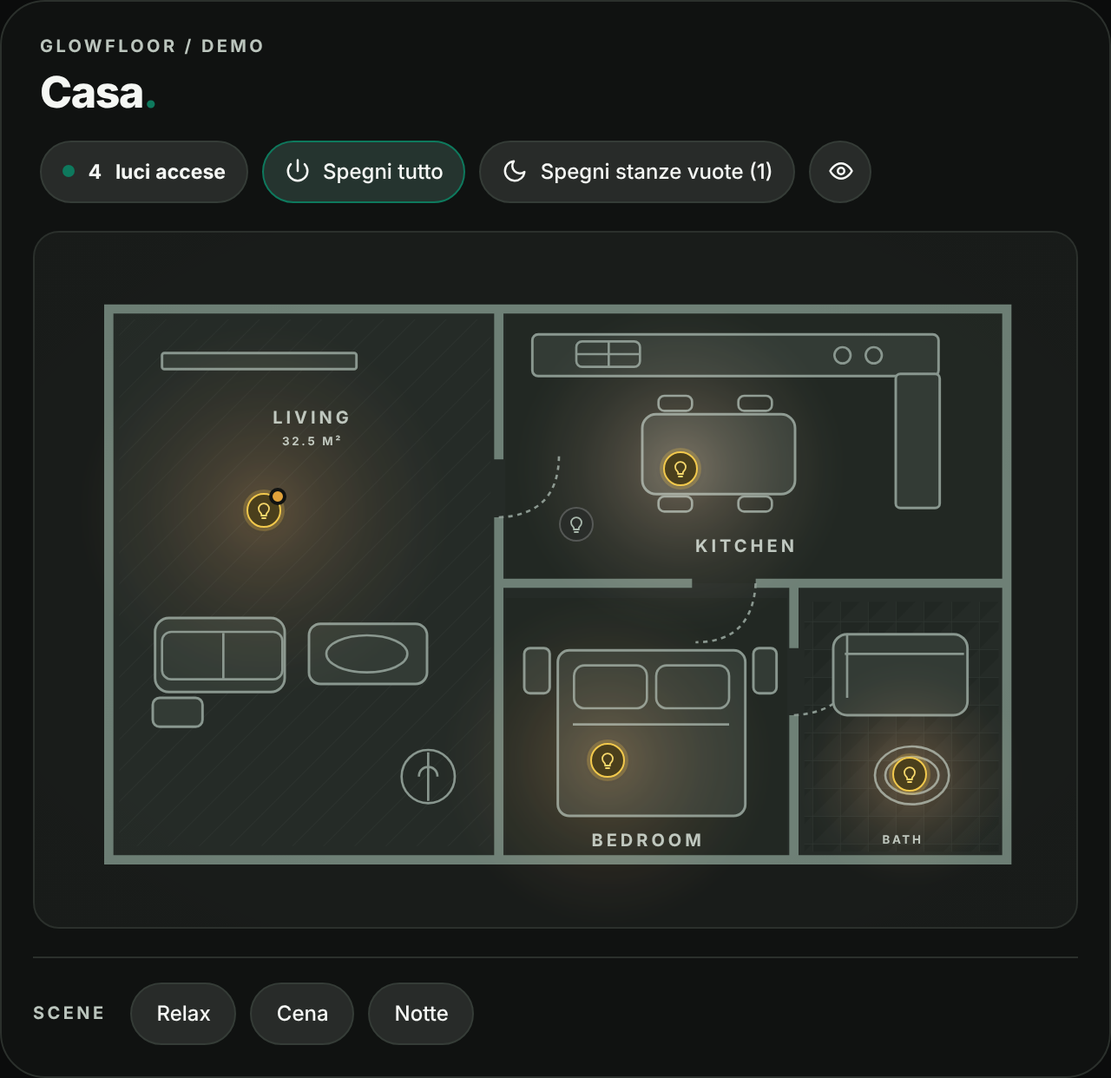
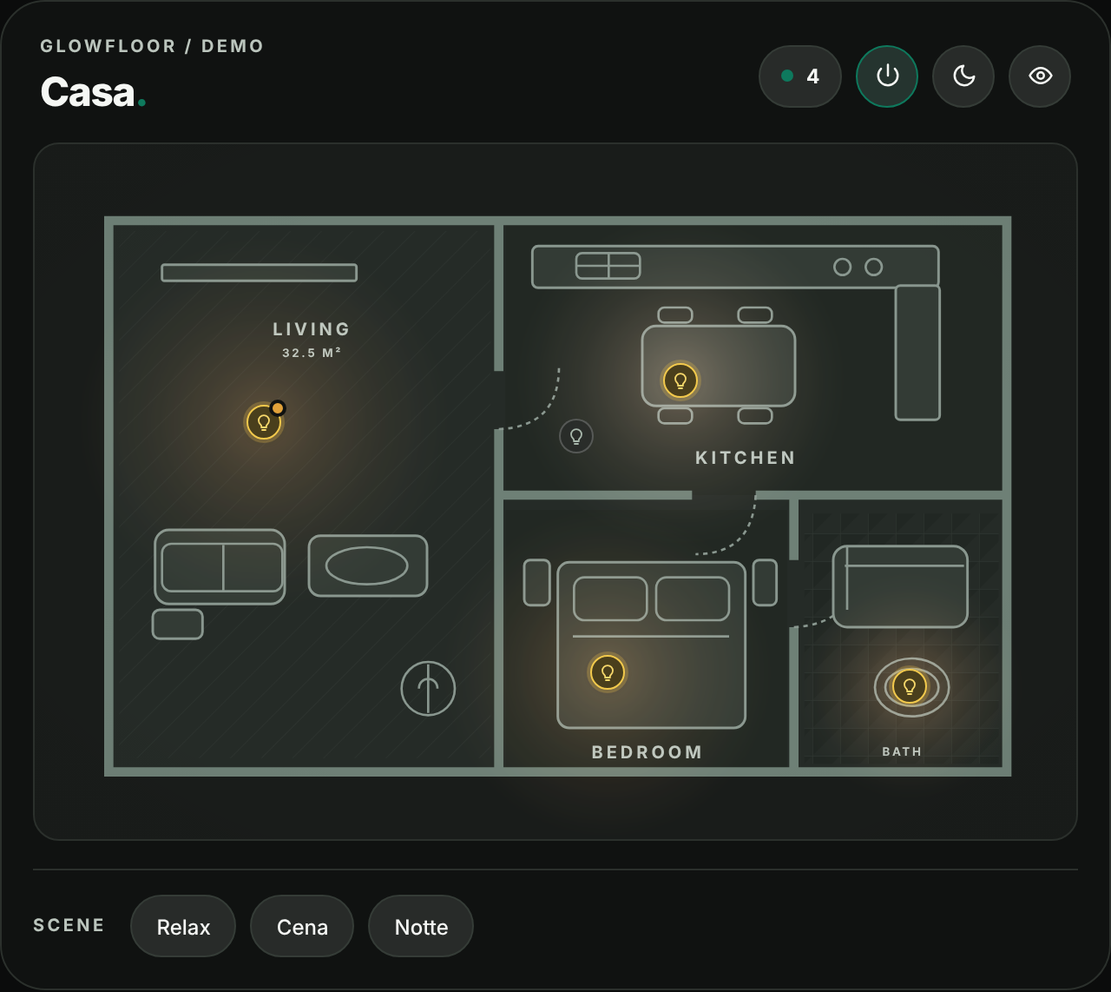
Keep only compact markers, add title and label switches, adapt toolbar to control count

diff --git a/dist/glowfloor-card.js b/dist/glowfloor-card.js
@@ -29,7 +29,7 @@ const STYLE = `
 :host{--gf-n-off:rgba(255,255,255,.66);--gf-n-off-line:rgba(24,34,28,.22);--gf-n-off-ink:#6a7a70;--gf-y-bg:#fff0b8;--gf-y-line:#d8a41a;--gf-y-ink:#9a6400;--gf-y-glow:#f2c94c33;--gf-skel-a:#e6eae5;--gf-skel-b:#f3f5f2;--gf-action-ink:#0a7156}
 :host([data-theme="dark"]){--gf-n-off:rgba(40,43,41,.72);--gf-n-off-line:rgba(245,247,244,.22);--gf-n-off-ink:#a9b9ad;--gf-y-bg:#4a3f1c;--gf-y-line:#f2c94c;--gf-y-ink:#f7d86b;--gf-y-glow:#f2c94c40;--gf-skel-a:#202422;--gf-skel-b:#2a2f2c;--gf-action-ink:#f5f7f4}
 .shell{display:block;border:1px solid var(--gf-line);border-radius:26px;background:var(--gf-frame);box-shadow:none;overflow:hidden;padding:18px;min-width:0;container-type:inline-size}
-.bar{display:flex;align-items:center;justify-content:space-between;gap:12px;margin:2px 4px 16px;flex-wrap:wrap}.intro{min-width:0}.intro[hidden],.intro [hidden]{display:none}.eyebrow{color:var(--gf-muted);font-size:10px;font-weight:750;letter-spacing:1.7px;text-transform:uppercase;margin-bottom:7px}.title{color:var(--gf-ink);font-size:25px;line-height:1.14;letter-spacing:-.7px;font-weight:780;overflow-wrap:anywhere}.title .dot{color:var(--gf-accent);font-weight:800}.sub{font-size:12px;color:var(--gf-muted);margin-top:5px}.tools{display:flex;gap:8px;align-items:center;flex-wrap:wrap}.count,.action,.theme{border:1px solid var(--gf-chip-border);border-radius:999px;background:var(--gf-chip);color:var(--gf-ink);font:inherit;font-size:12px;font-weight:550;white-space:nowrap;min-height:36px}.count{display:flex;align-items:center;gap:8px;padding:9px 12px;font-size:11.5px;font-weight:650;font-variant-numeric:tabular-nums}.count::before{content:"";width:7px;height:7px;background:var(--gf-muted);border-radius:50%;opacity:.7}.action{display:inline-flex;align-items:center;gap:7px;padding:8px 12px;cursor:pointer}.action svg{width:15px;height:15px;flex:none}.action:disabled{opacity:.48;cursor:not-allowed}.action:not(:disabled):hover,.scene:hover{border-color:var(--gf-accent)}.count.has-on::before{background:var(--gf-accent);opacity:1}.toggle-plan{width:36px;padding:0;justify-content:center}.toggle-plan[aria-expanded="false"]{border-color:var(--gf-accent);color:var(--gf-action-ink)}.all-off:not(:disabled){border-color:var(--gf-accent);color:var(--gf-action-ink);background:color-mix(in srgb,var(--gf-accent) 12%,var(--gf-chip))}@container (max-width:480px){.count .lbl,.action .t{display:none}.action{width:36px;padding:0;justify-content:center}.count{padding:0 12px}}@container (max-width:420px){.title{font-size:23px}}.plan[hidden]{display:none!important}
+.bar{display:flex;align-items:center;justify-content:space-between;gap:12px;margin:2px 4px 16px;flex-wrap:wrap}.intro{min-width:0}.intro[hidden],.intro [hidden]{display:none}.eyebrow{color:var(--gf-muted);font-size:10px;font-weight:750;letter-spacing:1.7px;text-transform:uppercase;margin-bottom:7px}.title{color:var(--gf-ink);font-size:23px;line-height:1.14;letter-spacing:-.7px;font-weight:780;overflow-wrap:anywhere}.title .dot{color:var(--gf-accent);font-weight:800}.sub{font-size:12px;color:var(--gf-muted);margin-top:5px}.tools{display:flex;gap:8px;align-items:center;flex-wrap:wrap}.count,.action,.theme{border:1px solid var(--gf-chip-border);border-radius:999px;background:var(--gf-chip);color:var(--gf-ink);font:inherit;font-size:12px;font-weight:550;white-space:nowrap;min-height:36px}.count{display:flex;align-items:center;gap:8px;padding:9px 12px;font-size:11.5px;font-weight:650;font-variant-numeric:tabular-nums}.count::before{content:"";width:7px;height:7px;background:var(--gf-muted);border-radius:50%;opacity:.7}.action{display:inline-flex;align-items:center;gap:7px;padding:8px 12px;cursor:pointer}.action svg{width:15px;height:15px;flex:none}.action:disabled{opacity:.48;cursor:not-allowed}.action:not(:disabled):hover,.scene:hover{border-color:var(--gf-accent)}.count.has-on::before{background:var(--gf-accent);opacity:1}.toggle-plan{width:36px;padding:0;justify-content:center}.toggle-plan[aria-expanded="false"]{border-color:var(--gf-accent);color:var(--gf-action-ink)}.all-off:not(:disabled){border-color:var(--gf-accent);color:var(--gf-action-ink);background:color-mix(in srgb,var(--gf-accent) 12%,var(--gf-chip))}.tools:has(.vacant-off:not([hidden])) .count .lbl,.tools:has(.vacant-off:not([hidden])) .action .t{display:none}.tools:has(.vacant-off:not([hidden])) .action{width:36px;padding:0;justify-content:center}.tools:has(.vacant-off:not([hidden])) .count{padding:0 12px}.plan[hidden]{display:none!important}
 .plan{position:relative;width:100%;background:var(--gf-plan);border:1px solid var(--gf-line);border-radius:15px;overflow:hidden;isolation:isolate;line-height:0;min-width:0}
 /* Each pool of light sits on top of the floorplan, behind its control marker. */
 .spill{position:absolute;z-index:1;aspect-ratio:1;pointer-events:none;transform:translate(-50%,-50%) scale(.72);border-radius:50%;opacity:0;transition:opacity .32s ease,transform .52s cubic-bezier(.16,.8,.25,1);filter:blur(5px);background:radial-gradient(circle,rgba(var(--gf-light-rgb,211,194,157),.35) 0%,rgba(var(--gf-light-rgb,211,194,157),.19) 22%,rgba(var(--gf-light-rgb,211,194,157),.08) 45%,rgba(var(--gf-light-rgb,255,194,116),0) 72%)}
@@ -46,10 +46,6 @@ const STYLE = `
 :host([data-marker-style="compact"]){--gf-icon-ratio:.6}
 :host([data-marker-style="compact"]) .orb{background:var(--gf-n-off);border-color:var(--gf-n-off-line);color:var(--gf-n-off-ink);box-shadow:none;-webkit-backdrop-filter:blur(3px);backdrop-filter:blur(3px)}
 :host([data-marker-style="compact"]) .marker.on .orb{background:var(--gf-y-bg);border-color:var(--gf-y-line);color:var(--gf-y-ink);box-shadow:0 0 0 2px var(--gf-y-glow),0 1px 4px #00000022}
-:host([data-marker-style="icon"]){--gf-icon-ratio:1}
-:host([data-marker-style="icon"]) .orb,:host([data-marker-style="icon"]) .marker.on .orb{background:transparent;border:0;box-shadow:none}
-:host([data-marker-style="icon"]) .orb{filter:drop-shadow(0 0 2px #000000bf)}
-:host([data-theme="light"][data-marker-style="icon"]) .orb{filter:drop-shadow(0 0 2px #ffffffe6)}
 .plan.pending{aspect-ratio:3/2}
 .plan.pending .floor-image{position:absolute;inset:0;height:100%;object-fit:cover}
 .plan.pending .marker,.plan.pending .spill{visibility:hidden}
@@ -128,11 +124,10 @@ button:focus-visible{outline:2px solid var(--primary-color,#668277);outline-offs
 `;
 const isValidEntity = (id, domain) => typeof id === 'string' && new RegExp(`^${domain}\\.[a-z0-9_]+$`).test(id);
 const coordinate = (v, defaultValue = 50) => Number.isFinite(Number(v)) ? Math.max(0, Math.min(100, Number(v))) : defaultValue;
-const MARKER_STYLES = ['chip', 'compact', 'icon'];
-const STYLE_DEFAULT_SIZE = { chip: 28, compact: 20, icon: 18 };
+const STYLE_DEFAULT_SIZE = { compact: 20 };
 const ICON_SOURCES = ['entity', 'custom', 'default'];
-const markerStyle = (v) => MARKER_STYLES.includes(v) ? v : 'chip';
-const markerMin = (style) => style === 'chip' ? 26 : 16;
+const markerStyle = () => 'compact';
+const markerMin = () => 16;
 const markerSize = (v, fallback = 28, min = 26) => v != null && typeof v !== 'boolean' && String(v).trim() !== '' && Number.isFinite(Number(v)) ? Math.max(min, Math.min(76, Math.round(Number(v)))) : fallback;
 const validIcon = (v) => typeof v === 'string' && /^[a-z0-9_-]+:[a-z0-9_-]+$/i.test(v.trim());
 const pickImage = (config, theme) => {
@@ -212,7 +207,7 @@ const resolveFloorplanImage = async (hass,value,cache={}) => {
   cache.pendingId=id;cache.pending=pending;
   try{return await pending;}finally{if(cache.pending===pending){delete cache.pending;delete cache.pendingId;}}
 };
-const defaultConfig = () => ({ eyebrow: 'GLOWFLOOR / INTERACTIVE PLAN', title: 'Living spaces', subtitle: '', theme_mode: 'auto', spill_enabled: true, marker_size: 28, marker_style: 'chip', icon_mode: 'default', label_mode: 'interaction', dim_gesture: false, empty_delay: 10, lights: [] });
+const defaultConfig = () => ({ eyebrow: 'GLOWFLOOR / INTERACTIVE PLAN', title: 'Living spaces', subtitle: '', theme_mode: 'auto', spill_enabled: true, marker_size: 20, marker_style: 'compact', show_eyebrow: true, show_title: true, icon_mode: 'default', label_mode: 'interaction', dim_gesture: false, empty_delay: 10, lights: [] });
 const normalizeConfig = (raw) => {
   if (!raw || typeof raw !== 'object') throw new Error('GlowFloor: invalid configuration.');
   const style = markerStyle(raw.marker_style), minSize = markerMin(style);
@@ -224,7 +219,9 @@ const normalizeConfig = (raw) => {
     theme_mode: ['auto', 'dark', 'light'].includes(raw.theme_mode) ? raw.theme_mode : 'auto',
     spill_enabled: raw.spill_enabled !== false,
     marker_style: style,
-    marker_size: markerSize(raw.marker_size, STYLE_DEFAULT_SIZE[style], minSize),
+    marker_size: markerSize(raw.marker_style === 'chip' && Number(raw.marker_size) === 28 ? null : raw.marker_size, STYLE_DEFAULT_SIZE[style], minSize),
+    show_eyebrow: raw.show_eyebrow !== false,
+    show_title: raw.show_title !== false,
     icon_mode: ['entity', 'default'].includes(raw.icon_mode) ? raw.icon_mode : 'default',
     label_mode: ['interaction','always','never'].includes(raw.label_mode) ? raw.label_mode : 'interaction',
     dim_gesture: raw.dim_gesture === true,
@@ -406,11 +403,11 @@ class GlowFloorCard extends HTMLElement {
     const c=this._config, root=this.shadowRoot;
     this.dataset.labelMode=c.label_mode;this.dataset.markerStyle=c.marker_style;this.dataset.dimGesture=String(c.dim_gesture);
     if(c.label_mode!=='interaction')this._clearLabels();
-    const eyebrow=root.querySelector('.eyebrow');eyebrow.textContent=c.eyebrow;eyebrow.hidden=!c.eyebrow;
-    const title=root.querySelector('.title');title.textContent=c.title;title.hidden=!c.title;
-    if(c.title){const dot=document.createElement('span');dot.className='dot';dot.textContent='.';title.append(dot);}
+    const eyebrow=root.querySelector('.eyebrow');eyebrow.textContent=c.eyebrow;eyebrow.hidden=!(c.show_eyebrow&&c.eyebrow);
+    const title=root.querySelector('.title');title.textContent=c.title;title.hidden=!(c.show_title&&c.title);
+    if(c.show_title&&c.title){const dot=document.createElement('span');dot.className='dot';dot.textContent='.';title.append(dot);}
     const sub=root.querySelector('.sub');sub.textContent=c.subtitle;sub.hidden=!c.subtitle;
-    root.querySelector('.intro').hidden=!(c.eyebrow||c.title||c.subtitle);
+    root.querySelector('.intro').hidden=!((c.show_eyebrow&&c.eyebrow)||(c.show_title&&c.title)||c.subtitle);
     c.lights.forEach((light,index)=>{
       const button=this._markerElements[index],spill=this._spillElements[index];
       if(button){
@@ -441,11 +438,11 @@ class GlowFloorCard extends HTMLElement {
     const root=this.shadowRoot;
     this.dataset.labelMode=c.label_mode;this.dataset.markerStyle=c.marker_style;this.dataset.dimGesture=String(c.dim_gesture);
     root.innerHTML=`<style>${STYLE}</style><ha-card class="shell"><div class="bar"><div class="intro"><div class="eyebrow"></div><div class="title"></div><div class="sub"></div></div><div class="tools"><div class="count" role="status" aria-live="polite" aria-label="0 luci accese"><span class="num">0</span> <span class="lbl">luci accese</span></div><button class="action all-off" type="button" aria-label="Spegni tutto" disabled>${POWER_SVG}<span class="t">Spegni tutto</span></button><button class="action vacant-off" type="button" aria-label="Spegni stanze vuote (0)" hidden>${MOON_SVG}<span class="t">Spegni stanze vuote (0)</span></button><button class="action toggle-plan" type="button" aria-controls="glowfloor-plan" aria-expanded="true" aria-label="Nascondi piantina" title="Nascondi piantina">${EYE_SVG}</button></div></div><div class="plan" id="glowfloor-plan"></div><div class="scene-dock" hidden><span class="dock-label">SCENE</span></div><div class="error" role="alert" hidden></div></ha-card>`;
-    const eyebrow=root.querySelector('.eyebrow');eyebrow.textContent=c.eyebrow;eyebrow.hidden=!c.eyebrow;
-    const title=root.querySelector('.title');title.textContent=c.title;title.hidden=!c.title;
-    if(c.title){const dot=document.createElement('span');dot.className='dot';dot.textContent='.';title.append(dot);}
+    const eyebrow=root.querySelector('.eyebrow');eyebrow.textContent=c.eyebrow;eyebrow.hidden=!(c.show_eyebrow&&c.eyebrow);
+    const title=root.querySelector('.title');title.textContent=c.title;title.hidden=!(c.show_title&&c.title);
+    if(c.show_title&&c.title){const dot=document.createElement('span');dot.className='dot';dot.textContent='.';title.append(dot);}
     const sub=root.querySelector('.sub');sub.textContent=c.subtitle;sub.hidden=!c.subtitle;
-    root.querySelector('.intro').hidden=!(c.eyebrow||c.title||c.subtitle);
+    root.querySelector('.intro').hidden=!((c.show_eyebrow&&c.eyebrow)||(c.show_title&&c.title)||c.subtitle);
     const plan=root.querySelector('.plan');
     if(pickImage(c,this._resolvedTheme())){const img=document.createElement('img');img.className='floor-image';img.alt='Piantina';img.decoding='async';img.referrerPolicy='no-referrer';img.onload=()=>this._imageReady();img.onerror=()=>{this._imageReady(false);this._showError('Impossibile caricare la piantina. Controlla il file selezionato.');};plan.classList.add('pending');const skel=document.createElement('div');skel.className='skel';skel.setAttribute('aria-hidden','true');plan.append(skel,img);this._loadCardImage();} else {plan.insertAdjacentHTML('afterbegin',BUILTIN_FLOORPLAN);}
     this._rebuildOverlays();
@@ -848,19 +845,14 @@ class GlowFloorCardEditor extends HTMLElement {
   _renderAppearance(){
     const section=this.shadowRoot.querySelector('.section[data-tab="aspetto"]');section.replaceChildren();
     const heading=document.createElement('div');heading.className='section-title';heading.textContent='Aspetto della card';section.append(heading);
-    section.append(this._field('Titolo (facoltativo)',this._config.title,value=>this._update('title',value),{maxlength:120}));
-    section.append(this._field('Testo superiore (facoltativo)',this._config.eyebrow,value=>this._update('eyebrow',value),{maxlength:100}));
+    section.append(this._field('Titolo',String(this._config.show_title),value=>this._update('show_title',value==='true'),{options:[['true','Mostrato'],['false','Nascosto']]}));
+    section.append(this._field('Testo del titolo',this._config.title,value=>this._update('title',value),{maxlength:120}));
+    section.append(this._field('Etichetta superiore',String(this._config.show_eyebrow),value=>this._update('show_eyebrow',value==='true'),{options:[['true','Mostrata'],['false','Nascosta']]}));
+    section.append(this._field('Testo dell’etichetta',this._config.eyebrow,value=>this._update('eyebrow',value),{maxlength:100}));
     section.append(this._field('Sottotitolo (facoltativo)',this._config.subtitle,value=>this._update('subtitle',value),{maxlength:200}));
-    section.append(this._hint('Lascia vuoti tutti e tre i campi per nascondere le scritte superiori. Contatore e pulsanti restano visibili.'));
+    section.append(this._hint('Titolo ed etichetta si possono nascondere senza perdere il testo. Contatore e pulsanti restano visibili.'));
     section.append(this._field('Modalità colore',this._config.theme_mode,value=>this._update('theme_mode',value),{options:[['auto','Automatica (Home Assistant)'],['dark','Scura'],['light','Chiara']]}));
-    const style=this._config.marker_style,minPx=markerMin(style);
-    section.append(this._field('Stile dei marker',style,value=>{
-      const prev=this._config.marker_style,next=markerStyle(value);
-      const wasDefault=this._config.marker_size===STYLE_DEFAULT_SIZE[prev];
-      this._config.marker_style=next;
-      this._config.marker_size=markerSize(wasDefault?STYLE_DEFAULT_SIZE[next]:this._config.marker_size,STYLE_DEFAULT_SIZE[next],markerMin(next));
-      this._emit();this._renderAppearance();this._renderLights();
-    },{options:[['chip','Pieno (disco con bordo)'],['compact','Compatto (più discreto)'],['icon','Solo icona']]}));
+    const style='compact',minPx=markerMin(style);
     section.append(this._field('Icone delle luci',this._config.icon_mode,value=>this._update('icon_mode',value),{options:[['default','Lampadina GlowFloor'],['entity','Dall’entità Home Assistant']]}));
     const sizeBox=document.createElement('div');sizeBox.className='size-control';
     const sizeLabel=document.createElement('label');sizeLabel.textContent='Dimensione pulsanti';

diff --git a/src/glowfloor-card.js b/src/glowfloor-card.js
@@ -29,7 +29,7 @@ const STYLE = `
 :host{--gf-n-off:rgba(255,255,255,.66);--gf-n-off-line:rgba(24,34,28,.22);--gf-n-off-ink:#6a7a70;--gf-y-bg:#fff0b8;--gf-y-line:#d8a41a;--gf-y-ink:#9a6400;--gf-y-glow:#f2c94c33;--gf-skel-a:#e6eae5;--gf-skel-b:#f3f5f2;--gf-action-ink:#0a7156}
 :host([data-theme="dark"]){--gf-n-off:rgba(40,43,41,.72);--gf-n-off-line:rgba(245,247,244,.22);--gf-n-off-ink:#a9b9ad;--gf-y-bg:#4a3f1c;--gf-y-line:#f2c94c;--gf-y-ink:#f7d86b;--gf-y-glow:#f2c94c40;--gf-skel-a:#202422;--gf-skel-b:#2a2f2c;--gf-action-ink:#f5f7f4}
 .shell{display:block;border:1px solid var(--gf-line);border-radius:26px;background:var(--gf-frame);box-shadow:none;overflow:hidden;padding:18px;min-width:0;container-type:inline-size}
-.bar{display:flex;align-items:center;justify-content:space-between;gap:12px;margin:2px 4px 16px;flex-wrap:wrap}.intro{min-width:0}.intro[hidden],.intro [hidden]{display:none}.eyebrow{color:var(--gf-muted);font-size:10px;font-weight:750;letter-spacing:1.7px;text-transform:uppercase;margin-bottom:7px}.title{color:var(--gf-ink);font-size:25px;line-height:1.14;letter-spacing:-.7px;font-weight:780;overflow-wrap:anywhere}.title .dot{color:var(--gf-accent);font-weight:800}.sub{font-size:12px;color:var(--gf-muted);margin-top:5px}.tools{display:flex;gap:8px;align-items:center;flex-wrap:wrap}.count,.action,.theme{border:1px solid var(--gf-chip-border);border-radius:999px;background:var(--gf-chip);color:var(--gf-ink);font:inherit;font-size:12px;font-weight:550;white-space:nowrap;min-height:36px}.count{display:flex;align-items:center;gap:8px;padding:9px 12px;font-size:11.5px;font-weight:650;font-variant-numeric:tabular-nums}.count::before{content:"";width:7px;height:7px;background:var(--gf-muted);border-radius:50%;opacity:.7}.action{display:inline-flex;align-items:center;gap:7px;padding:8px 12px;cursor:pointer}.action svg{width:15px;height:15px;flex:none}.action:disabled{opacity:.48;cursor:not-allowed}.action:not(:disabled):hover,.scene:hover{border-color:var(--gf-accent)}.count.has-on::before{background:var(--gf-accent);opacity:1}.toggle-plan{width:36px;padding:0;justify-content:center}.toggle-plan[aria-expanded="false"]{border-color:var(--gf-accent);color:var(--gf-action-ink)}.all-off:not(:disabled){border-color:var(--gf-accent);color:var(--gf-action-ink);background:color-mix(in srgb,var(--gf-accent) 12%,var(--gf-chip))}@container (max-width:480px){.count .lbl,.action .t{display:none}.action{width:36px;padding:0;justify-content:center}.count{padding:0 12px}}@container (max-width:420px){.title{font-size:23px}}.plan[hidden]{display:none!important}
+.bar{display:flex;align-items:center;justify-content:space-between;gap:12px;margin:2px 4px 16px;flex-wrap:wrap}.intro{min-width:0}.intro[hidden],.intro [hidden]{display:none}.eyebrow{color:var(--gf-muted);font-size:10px;font-weight:750;letter-spacing:1.7px;text-transform:uppercase;margin-bottom:7px}.title{color:var(--gf-ink);font-size:23px;line-height:1.14;letter-spacing:-.7px;font-weight:780;overflow-wrap:anywhere}.title .dot{color:var(--gf-accent);font-weight:800}.sub{font-size:12px;color:var(--gf-muted);margin-top:5px}.tools{display:flex;gap:8px;align-items:center;flex-wrap:wrap}.count,.action,.theme{border:1px solid var(--gf-chip-border);border-radius:999px;background:var(--gf-chip);color:var(--gf-ink);font:inherit;font-size:12px;font-weight:550;white-space:nowrap;min-height:36px}.count{display:flex;align-items:center;gap:8px;padding:9px 12px;font-size:11.5px;font-weight:650;font-variant-numeric:tabular-nums}.count::before{content:"";width:7px;height:7px;background:var(--gf-muted);border-radius:50%;opacity:.7}.action{display:inline-flex;align-items:center;gap:7px;padding:8px 12px;cursor:pointer}.action svg{width:15px;height:15px;flex:none}.action:disabled{opacity:.48;cursor:not-allowed}.action:not(:disabled):hover,.scene:hover{border-color:var(--gf-accent)}.count.has-on::before{background:var(--gf-accent);opacity:1}.toggle-plan{width:36px;padding:0;justify-content:center}.toggle-plan[aria-expanded="false"]{border-color:var(--gf-accent);color:var(--gf-action-ink)}.all-off:not(:disabled){border-color:var(--gf-accent);color:var(--gf-action-ink);background:color-mix(in srgb,var(--gf-accent) 12%,var(--gf-chip))}.tools:has(.vacant-off:not([hidden])) .count .lbl,.tools:has(.vacant-off:not([hidden])) .action .t{display:none}.tools:has(.vacant-off:not([hidden])) .action{width:36px;padding:0;justify-content:center}.tools:has(.vacant-off:not([hidden])) .count{padding:0 12px}.plan[hidden]{display:none!important}
 .plan{position:relative;width:100%;background:var(--gf-plan);border:1px solid var(--gf-line);border-radius:15px;overflow:hidden;isolation:isolate;line-height:0;min-width:0}
 /* Each pool of light sits on top of the floorplan, behind its control marker. */
 .spill{position:absolute;z-index:1;aspect-ratio:1;pointer-events:none;transform:translate(-50%,-50%) scale(.72);border-radius:50%;opacity:0;transition:opacity .32s ease,transform .52s cubic-bezier(.16,.8,.25,1);filter:blur(5px);background:radial-gradient(circle,rgba(var(--gf-light-rgb,211,194,157),.35) 0%,rgba(var(--gf-light-rgb,211,194,157),.19) 22%,rgba(var(--gf-light-rgb,211,194,157),.08) 45%,rgba(var(--gf-light-rgb,255,194,116),0) 72%)}
@@ -46,10 +46,6 @@ const STYLE = `
 :host([data-marker-style="compact"]){--gf-icon-ratio:.6}
 :host([data-marker-style="compact"]) .orb{background:var(--gf-n-off);border-color:var(--gf-n-off-line);color:var(--gf-n-off-ink);box-shadow:none;-webkit-backdrop-filter:blur(3px);backdrop-filter:blur(3px)}
 :host([data-marker-style="compact"]) .marker.on .orb{background:var(--gf-y-bg);border-color:var(--gf-y-line);color:var(--gf-y-ink);box-shadow:0 0 0 2px var(--gf-y-glow),0 1px 4px #00000022}
-:host([data-marker-style="icon"]){--gf-icon-ratio:1}
-:host([data-marker-style="icon"]) .orb,:host([data-marker-style="icon"]) .marker.on .orb{background:transparent;border:0;box-shadow:none}
-:host([data-marker-style="icon"]) .orb{filter:drop-shadow(0 0 2px #000000bf)}
-:host([data-theme="light"][data-marker-style="icon"]) .orb{filter:drop-shadow(0 0 2px #ffffffe6)}
 .plan.pending{aspect-ratio:3/2}
 .plan.pending .floor-image{position:absolute;inset:0;height:100%;object-fit:cover}
 .plan.pending .marker,.plan.pending .spill{visibility:hidden}
@@ -128,11 +124,10 @@ button:focus-visible{outline:2px solid var(--primary-color,#668277);outline-offs
 `;
 const isValidEntity = (id, domain) => typeof id === 'string' && new RegExp(`^${domain}\\.[a-z0-9_]+$`).test(id);
 const coordinate = (v, defaultValue = 50) => Number.isFinite(Number(v)) ? Math.max(0, Math.min(100, Number(v))) : defaultValue;
-const MARKER_STYLES = ['chip', 'compact', 'icon'];
-const STYLE_DEFAULT_SIZE = { chip: 28, compact: 20, icon: 18 };
+const STYLE_DEFAULT_SIZE = { compact: 20 };
 const ICON_SOURCES = ['entity', 'custom', 'default'];
-const markerStyle = (v) => MARKER_STYLES.includes(v) ? v : 'chip';
-const markerMin = (style) => style === 'chip' ? 26 : 16;
+const markerStyle = () => 'compact';
+const markerMin = () => 16;
 const markerSize = (v, fallback = 28, min = 26) => v != null && typeof v !== 'boolean' && String(v).trim() !== '' && Number.isFinite(Number(v)) ? Math.max(min, Math.min(76, Math.round(Number(v)))) : fallback;
 const validIcon = (v) => typeof v === 'string' && /^[a-z0-9_-]+:[a-z0-9_-]+$/i.test(v.trim());
 const pickImage = (config, theme) => {
@@ -212,7 +207,7 @@ const resolveFloorplanImage = async (hass,value,cache={}) => {
   cache.pendingId=id;cache.pending=pending;
   try{return await pending;}finally{if(cache.pending===pending){delete cache.pending;delete cache.pendingId;}}
 };
-const defaultConfig = () => ({ eyebrow: 'GLOWFLOOR / INTERACTIVE PLAN', title: 'Living spaces', subtitle: '', theme_mode: 'auto', spill_enabled: true, marker_size: 28, marker_style: 'chip', icon_mode: 'default', label_mode: 'interaction', dim_gesture: false, empty_delay: 10, lights: [] });
+const defaultConfig = () => ({ eyebrow: 'GLOWFLOOR / INTERACTIVE PLAN', title: 'Living spaces', subtitle: '', theme_mode: 'auto', spill_enabled: true, marker_size: 20, marker_style: 'compact', show_eyebrow: true, show_title: true, icon_mode: 'default', label_mode: 'interaction', dim_gesture: false, empty_delay: 10, lights: [] });
 const normalizeConfig = (raw) => {
   if (!raw || typeof raw !== 'object') throw new Error('GlowFloor: invalid configuration.');
   const style = markerStyle(raw.marker_style), minSize = markerMin(style);
@@ -224,7 +219,9 @@ const normalizeConfig = (raw) => {
     theme_mode: ['auto', 'dark', 'light'].includes(raw.theme_mode) ? raw.theme_mode : 'auto',
     spill_enabled: raw.spill_enabled !== false,
     marker_style: style,
-    marker_size: markerSize(raw.marker_size, STYLE_DEFAULT_SIZE[style], minSize),
+    marker_size: markerSize(raw.marker_style === 'chip' && Number(raw.marker_size) === 28 ? null : raw.marker_size, STYLE_DEFAULT_SIZE[style], minSize),
+    show_eyebrow: raw.show_eyebrow !== false,
+    show_title: raw.show_title !== false,
     icon_mode: ['entity', 'default'].includes(raw.icon_mode) ? raw.icon_mode : 'default',
     label_mode: ['interaction','always','never'].includes(raw.label_mode) ? raw.label_mode : 'interaction',
     dim_gesture: raw.dim_gesture === true,
@@ -406,11 +403,11 @@ class GlowFloorCard extends HTMLElement {
     const c=this._config, root=this.shadowRoot;
     this.dataset.labelMode=c.label_mode;this.dataset.markerStyle=c.marker_style;this.dataset.dimGesture=String(c.dim_gesture);
     if(c.label_mode!=='interaction')this._clearLabels();
-    const eyebrow=root.querySelector('.eyebrow');eyebrow.textContent=c.eyebrow;eyebrow.hidden=!c.eyebrow;
-    const title=root.querySelector('.title');title.textContent=c.title;title.hidden=!c.title;
-    if(c.title){const dot=document.createElement('span');dot.className='dot';dot.textContent='.';title.append(dot);}
+    const eyebrow=root.querySelector('.eyebrow');eyebrow.textContent=c.eyebrow;eyebrow.hidden=!(c.show_eyebrow&&c.eyebrow);
+    const title=root.querySelector('.title');title.textContent=c.title;title.hidden=!(c.show_title&&c.title);
+    if(c.show_title&&c.title){const dot=document.createElement('span');dot.className='dot';dot.textContent='.';title.append(dot);}
     const sub=root.querySelector('.sub');sub.textContent=c.subtitle;sub.hidden=!c.subtitle;
-    root.querySelector('.intro').hidden=!(c.eyebrow||c.title||c.subtitle);
+    root.querySelector('.intro').hidden=!((c.show_eyebrow&&c.eyebrow)||(c.show_title&&c.title)||c.subtitle);
     c.lights.forEach((light,index)=>{
       const button=this._markerElements[index],spill=this._spillElements[index];
       if(button){
@@ -441,11 +438,11 @@ class GlowFloorCard extends HTMLElement {
     const root=this.shadowRoot;
     this.dataset.labelMode=c.label_mode;this.dataset.markerStyle=c.marker_style;this.dataset.dimGesture=String(c.dim_gesture);
     root.innerHTML=`<style>${STYLE}</style><ha-card class="shell"><div class="bar"><div class="intro"><div class="eyebrow"></div><div class="title"></div><div class="sub"></div></div><div class="tools"><div class="count" role="status" aria-live="polite" aria-label="0 luci accese"><span class="num">0</span> <span class="lbl">luci accese</span></div><button class="action all-off" type="button" aria-label="Spegni tutto" disabled>${POWER_SVG}<span class="t">Spegni tutto</span></button><button class="action vacant-off" type="button" aria-label="Spegni stanze vuote (0)" hidden>${MOON_SVG}<span class="t">Spegni stanze vuote (0)</span></button><button class="action toggle-plan" type="button" aria-controls="glowfloor-plan" aria-expanded="true" aria-label="Nascondi piantina" title="Nascondi piantina">${EYE_SVG}</button></div></div><div class="plan" id="glowfloor-plan"></div><div class="scene-dock" hidden><span class="dock-label">SCENE</span></div><div class="error" role="alert" hidden></div></ha-card>`;
-    const eyebrow=root.querySelector('.eyebrow');eyebrow.textContent=c.eyebrow;eyebrow.hidden=!c.eyebrow;
-    const title=root.querySelector('.title');title.textContent=c.title;title.hidden=!c.title;
-    if(c.title){const dot=document.createElement('span');dot.className='dot';dot.textContent='.';title.append(dot);}
+    const eyebrow=root.querySelector('.eyebrow');eyebrow.textContent=c.eyebrow;eyebrow.hidden=!(c.show_eyebrow&&c.eyebrow);
+    const title=root.querySelector('.title');title.textContent=c.title;title.hidden=!(c.show_title&&c.title);
+    if(c.show_title&&c.title){const dot=document.createElement('span');dot.className='dot';dot.textContent='.';title.append(dot);}
     const sub=root.querySelector('.sub');sub.textContent=c.subtitle;sub.hidden=!c.subtitle;
-    root.querySelector('.intro').hidden=!(c.eyebrow||c.title||c.subtitle);
+    root.querySelector('.intro').hidden=!((c.show_eyebrow&&c.eyebrow)||(c.show_title&&c.title)||c.subtitle);
     const plan=root.querySelector('.plan');
     if(pickImage(c,this._resolvedTheme())){const img=document.createElement('img');img.className='floor-image';img.alt='Piantina';img.decoding='async';img.referrerPolicy='no-referrer';img.onload=()=>this._imageReady();img.onerror=()=>{this._imageReady(false);this._showError('Impossibile caricare la piantina. Controlla il file selezionato.');};plan.classList.add('pending');const skel=document.createElement('div');skel.className='skel';skel.setAttribute('aria-hidden','true');plan.append(skel,img);this._loadCardImage();} else {plan.insertAdjacentHTML('afterbegin',BUILTIN_FLOORPLAN);}
     this._rebuildOverlays();
@@ -848,19 +845,14 @@ class GlowFloorCardEditor extends HTMLElement {
   _renderAppearance(){
     const section=this.shadowRoot.querySelector('.section[data-tab="aspetto"]');section.replaceChildren();
     const heading=document.createElement('div');heading.className='section-title';heading.textContent='Aspetto della card';section.append(heading);
-    section.append(this._field('Titolo (facoltativo)',this._config.title,value=>this._update('title',value),{maxlength:120}));
-    section.append(this._field('Testo superiore (facoltativo)',this._config.eyebrow,value=>this._update('eyebrow',value),{maxlength:100}));
+    section.append(this._field('Titolo',String(this._config.show_title),value=>this._update('show_title',value==='true'),{options:[['true','Mostrato'],['false','Nascosto']]}));
+    section.append(this._field('Testo del titolo',this._config.title,value=>this._update('title',value),{maxlength:120}));
+    section.append(this._field('Etichetta superiore',String(this._config.show_eyebrow),value=>this._update('show_eyebrow',value==='true'),{options:[['true','Mostrata'],['false','Nascosta']]}));
+    section.append(this._field('Testo dell’etichetta',this._config.eyebrow,value=>this._update('eyebrow',value),{maxlength:100}));
     section.append(this._field('Sottotitolo (facoltativo)',this._config.subtitle,value=>this._update('subtitle',value),{maxlength:200}));
-    section.append(this._hint('Lascia vuoti tutti e tre i campi per nascondere le scritte superiori. Contatore e pulsanti restano visibili.'));
+    section.append(this._hint('Titolo ed etichetta si possono nascondere senza perdere il testo. Contatore e pulsanti restano visibili.'));
     section.append(this._field('Modalità colore',this._config.theme_mode,value=>this._update('theme_mode',value),{options:[['auto','Automatica (Home Assistant)'],['dark','Scura'],['light','Chiara']]}));
-    const style=this._config.marker_style,minPx=markerMin(style);
-    section.append(this._field('Stile dei marker',style,value=>{
-      const prev=this._config.marker_style,next=markerStyle(value);
-      const wasDefault=this._config.marker_size===STYLE_DEFAULT_SIZE[prev];
-      this._config.marker_style=next;
-      this._config.marker_size=markerSize(wasDefault?STYLE_DEFAULT_SIZE[next]:this._config.marker_size,STYLE_DEFAULT_SIZE[next],markerMin(next));
-      this._emit();this._renderAppearance();this._renderLights();
-    },{options:[['chip','Pieno (disco con bordo)'],['compact','Compatto (più discreto)'],['icon','Solo icona']]}));
+    const style='compact',minPx=markerMin(style);
     section.append(this._field('Icone delle luci',this._config.icon_mode,value=>this._update('icon_mode',value),{options:[['default','Lampadina GlowFloor'],['entity','Dall’entità Home Assistant']]}));
     const sizeBox=document.createElement('div');sizeBox.className='size-control';
     const sizeLabel=document.createElement('label');sizeLabel.textContent='Dimensione pulsanti';

diff --git a/README.md b/README.md
@@ -29,10 +29,11 @@ GlowFloor uses existing Home Assistant entities and services without requiring a
 
 - **Interactive floorplan:** Use the built-in sample, or select custom images through Home Assistant, with separate Light and Dark versions.
 - **Light and Dark floorplans:** The image follows the active theme. If only one image is set, it is used in both modes. The editor warns when the two images have different aspect ratios.
-- **Marker styles:** Choose Full (disc with border), Compact, or Icon only. Marker size is adjustable from 26 to 76 px (Full) or 16 to 76 px (Compact and Icon only).
+- **Compact markers:** Discreet round markers, adjustable from 16 to 76 px (default 20 px).
+- **Header text:** The top label and the title can each be shown or hidden without losing their text.
 - **Touch-friendly controls:** A minimum 44 × 44 px interaction area, independently of the visible marker size.
 - **Marker icons:** Use the GlowFloor bulb, the icon of the Home Assistant entity, or a custom icon, globally or per light.
-- **Light states:** Neutral sage-grey markers for inactive lights. Active lights are soft yellow in Compact style and soft champagne in Full and Icon only styles. A small amber dot flags a vacant room that still has lights on.
+- **Light states:** Neutral sage-grey markers for inactive lights. Active lights are soft yellow. A small amber dot flags a vacant room that still has lights on.
 - **Lighting effects:** Optional diffuse illumination following a light's brightness and RGB color, or its color temperature when no RGB color is reported.
 - **Drag to dim (optional):** Drag a marker horizontally to set brightness; a short tap still toggles the light. Arrow keys are supported.
 - **Empty-room indicator (optional):** Link a presence sensor to a light; if the room stays empty for the configured time, the light is flagged and a button turns off all flagged lights. Nothing is switched off automatically.
@@ -95,18 +96,12 @@ The editor contains five sections:
 | **Piantina (Floorplan)** | Select or upload separate Light and Dark floorplans, preview either theme, restore the sample image, and position markers directly on the image. |
 | **Luci (Lights)** | Add `light.*` entities, customize their names, and configure glow area, optional marker size, marker icon, and an optional presence sensor. |
 | **Scene (Scenes)** | Add up to three `scene.*` entities and customize their labels. |
-| **Aspetto (Appearance)** | Configure header text, display theme, marker style, icon source, marker size, light effects, label visibility, drag to dim, and the empty-room delay. |
+| **Aspetto (Appearance)** | Configure header text with show/hide switches for the title and the top label, display theme, icon source, marker size, light effects, label visibility, drag to dim, and the empty-room delay. |
 | **Avanzate (Advanced)** | Adjust marker coordinates and configure Light and Dark floorplan paths manually. |
 
 ### Marker configuration
 
-`marker_style` accepts `chip` (Full), `compact`, or `icon`. When omitted, `chip` is used, so existing cards look unchanged. Cards created from the visual editor start with `compact`.
-
-| Style | Default size | Allowed size |
-| --- | --- | --- |
-| `chip` | 28 px | 26–76 px |
-| `compact` | 20 px | 16–76 px |
-| `icon` | 18 px | 16–76 px |
+Markers use a single compact style: default size **20 px**, allowed range **16–76 px**. The former `marker_style` options (`chip`, `icon`) are still accepted in existing configurations and are rendered as compact.
 
 The interactive button area remains at least **44 × 44 px**. Individual marker sizes override the global setting. The illuminated area is configured separately and does not change the marker dimensions.
 
@@ -117,12 +112,13 @@ The visual editor is recommended. YAML remains available for advanced configurat
 ```yaml
 type: custom:glowfloor-card
 title: Floorplan
-eyebrow: ""
+show_title: true         # show or hide the title; default: true
+eyebrow: GLOWFLOOR
+show_eyebrow: true       # show or hide the top label; default: true
 subtitle: ""
 theme_mode: auto
 label_mode: interaction
 spill_enabled: true
-marker_style: compact
 marker_size: 20
 icon_mode: entity        # entity | default
 dim_gesture: true        # drag a marker to dim; default: false
